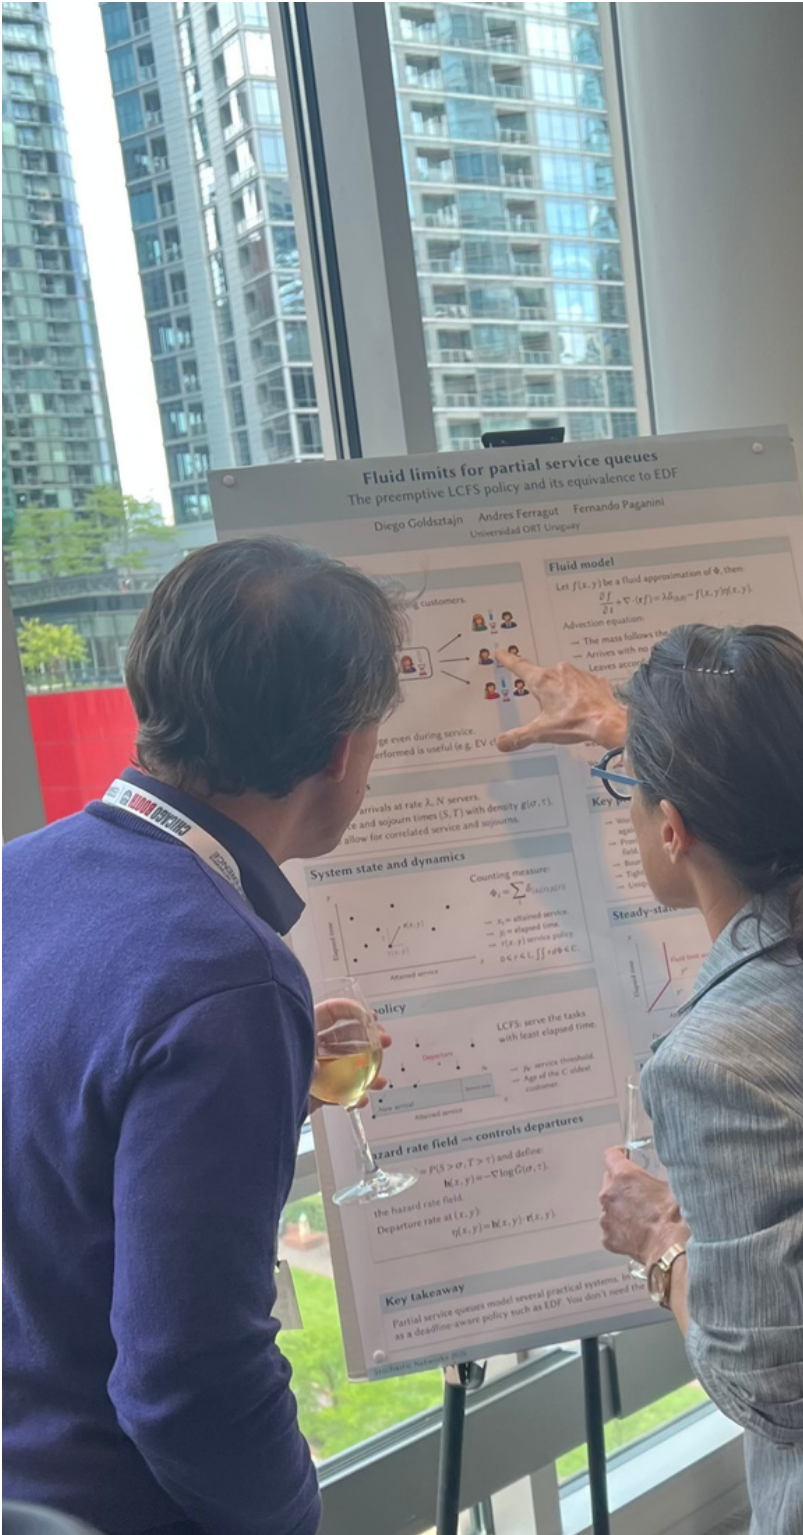
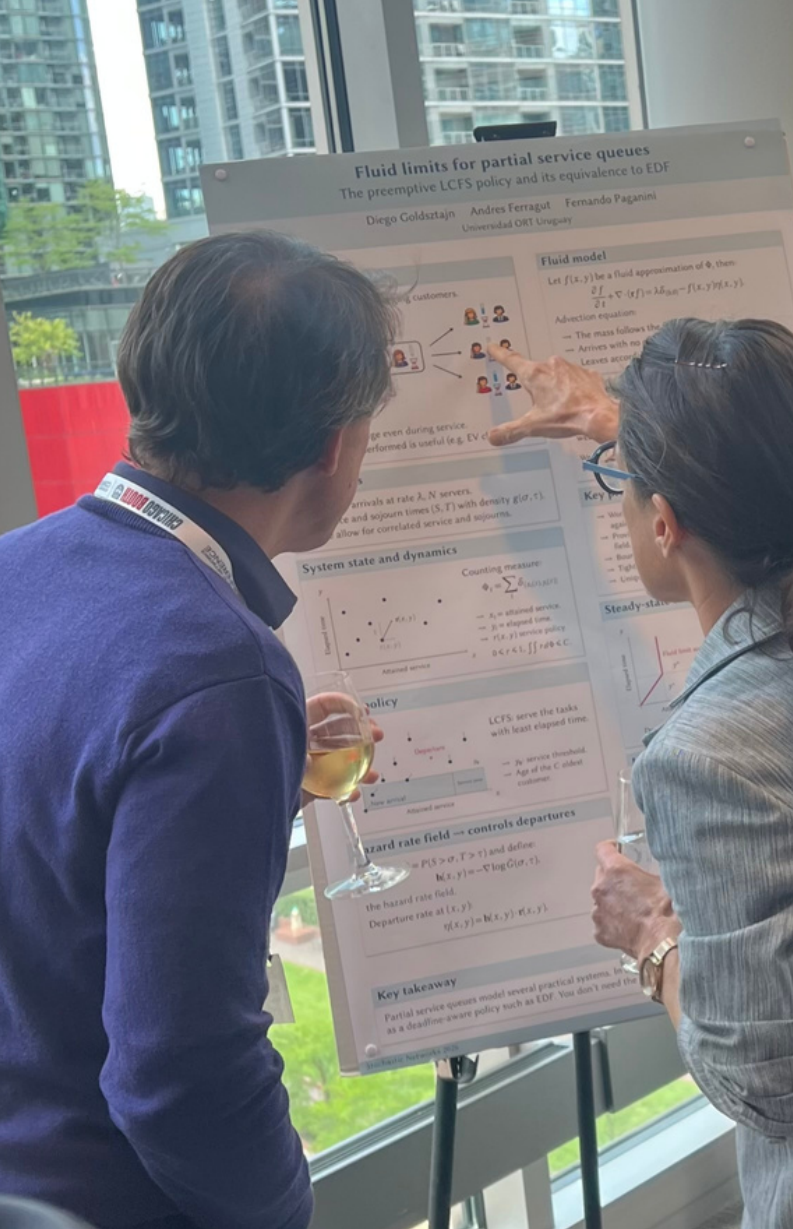
added interview. Better sn2026 pics

diff --git a/_news/entrevista_carve.md b/_news/entrevista_carve.md
@@ -1,0 +1,12 @@
+---
+layout: post
+date: 2026-08-19 14:30:00-0300
+inline: true
+title: Radio Interview
+---
+
+I was kindly interviewed (in Spanish) by Juan Andres Elhordoy in [Radio Carve](https://radiocarve.uy/ser-una-inmobiliaria-de-data-centers-no-tiene-gracia-el-desafio-que-plantea-la-llegada-de-empresas-como-google/) to discuss the growth and implications of data centers and the required energy management that would render them sustainable.
+
+<div class="container-fluid embed-responsive-16by9" style="width:90%;padding:2em">
+<iframe width="100%" scrolling="no" frameborder="no" allow="autoplay; encrypted-media" src="https://w.soundcloud.com/player/?url=https%3A//api.soundcloud.com/tracks/soundcloud%253Atracks%253A2384563338&color=ff5500"></iframe><div style="font-size: 10px; color: #cccccc;line-break: anywhere;word-break: normal;overflow: hidden;white-space: nowrap;text-overflow: ellipsis; font-family: Interstate,Lucida Grande,Lucida Sans Unicode,Lucida Sans,Garuda,Verdana,Tahoma,sans-serif;font-weight: 100;"><a href="https://soundcloud.com/casa-de-radios" title="Casa de Radios" target="_blank" style="color: #cccccc; text-decoration: none;">Casa de Radios</a> · <a href="https://soundcloud.com/casa-de-radios/entrevista-andres-ferragut" title="Entrevista Andrés Ferragut" target="_blank" style="color: #cccccc; text-decoration: none;">Entrevista Andrés Ferragut</a></div>
+</div>

diff --git a/_news/stochastic_networks_26.md b/_news/stochastic_networks_26.md
@@ -7,7 +7,11 @@ title: Stochastic Networks 2026
 
 I was very happy and proud to attend again the great [Stochastic Networks Conference](https://www.chicagobooth.edu/events/stochastic-networks-conference) in Chicago. Thanks to my friend [Amy Ward](https://www.chicagobooth.edu/faculty/directory/w/amy-ward) for hosting such a great conference. My poster is available [here](/assets/pdf/sn2026_poster.pdf).
 
-<div style="padding:2em">
-<img src="/assets/img/sn2026_conference_2.png" height="300" style="margin:1em;"/> <img src="/assets/img/sn2026_conference.png" height="300" style="margin:1em;"/>
-
+<div class="row g-3 align-items-center" style="margin-top:2em">
+  <div class="col-sm-8" style="padding:1em">
+    <img src="/assets/img/sn2026_conference_2.png" class="img-fluid" alt="Everybody" loading="lazy">
+  </div>
+  <div class="col-sm-4" style="padding:1em">
+    <img src="/assets/img/sn2026_conference.png" class="img-fluid" alt="Amy" loading="lazy">
+  </div>
 </div>
